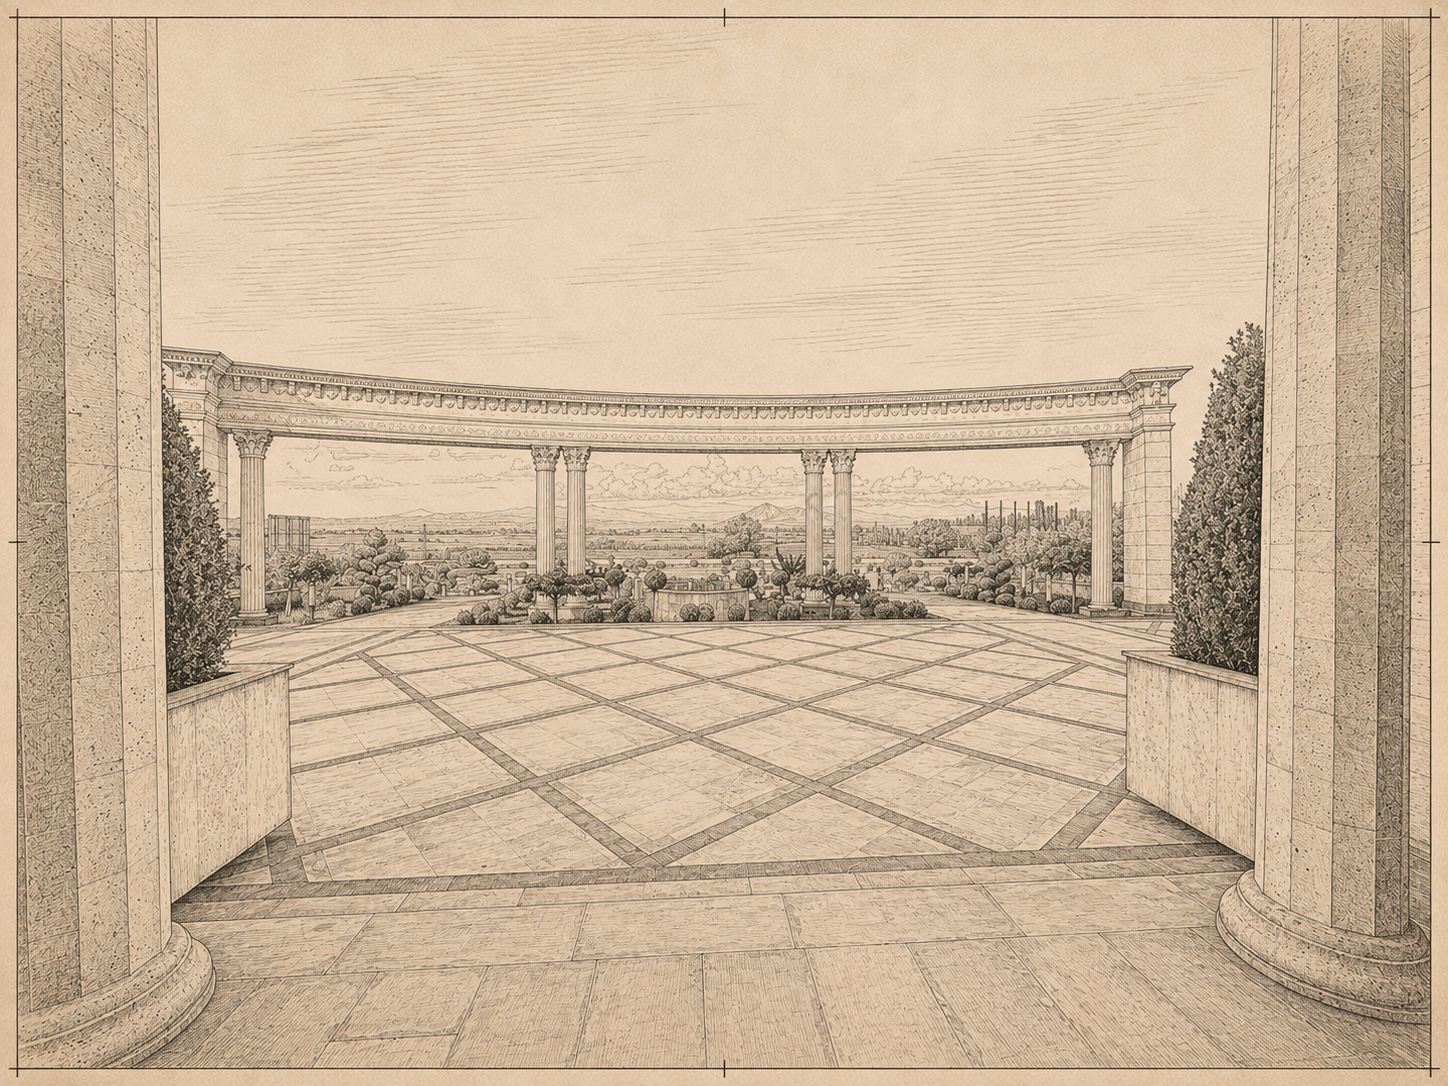
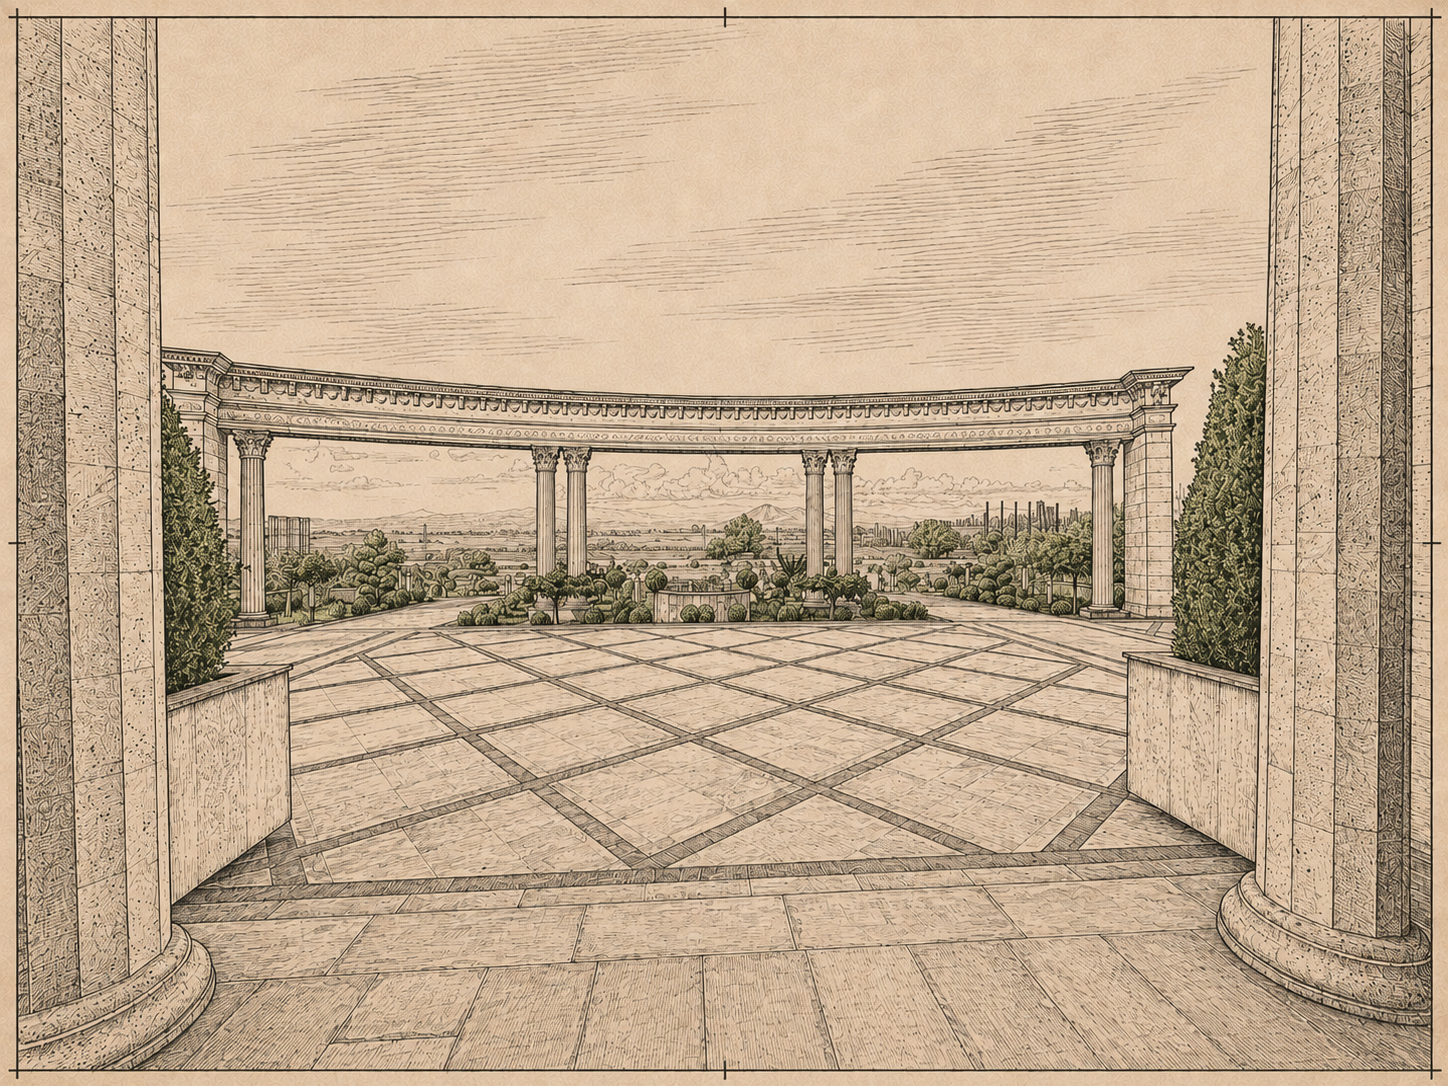
updated

diff --git a/src/App.jsx b/src/App.jsx
@@ -1,12 +1,10 @@
 import { useEffect, useMemo, useRef, useState } from 'react';
 import {
   ArrowUpRight,
-  CalendarDays,
   CheckCircle2,
   Clock3,
   Heart,
   MapPin,
-  Music2,
 } from 'lucide-react';
 import { useCountdown } from './hooks/useCountdown';
 import { submitRsvp } from './services/rsvpService';
@@ -102,7 +100,7 @@ function WeddingCalendar() {
 function EventCard({ event, mapButtonText, minimal = false }) {
   return (
     <article className="event-card">
-      <div className="event-media">
+      <div className={`event-media event-media-${event.id}`}>
         <img src={event.image} alt={event.imageAlt || event.title} loading="lazy" />
         <span>{event.number}</span>
       </div>
@@ -129,7 +127,7 @@ export default function App() {
   const [busy, setBusy] = useState(false);
   const [status, setStatus] = useState('');
   const audioRef = useRef(null);
-  const { couple, wedding, cover, hero, events, notes, rsvp, gallery, location, timing, appearance } = config;
+  const { couple, wedding, cover, hero, events, rsvp, gallery, location, timing, appearance } = config;
   const visibleEvents = events.filter(event => event.enabled !== false);
   const timingItems = visibleEvents.map(event => ({ time: event.time, title: event.title }));
   const dateParts = wedding.displayDate.split(' · ');
@@ -440,32 +438,6 @@ export default function App() {
             </div>
           </section>
         )}
-
-        <section className="details-section section">
-          <div className="section-copy">
-            <p className="kicker">{notes.kicker}</p>
-            <h2 data-shadow="DETAILS">DETAILS<em>special</em></h2>
-          </div>
-          <div className="details-grid">
-            {notes.items.map(note => (
-              <article key={note.title}>
-                {note.icon === 'calendar' ? <CalendarDays size={24} /> : <Heart size={24} />}
-                <h3>{note.title}</h3>
-                <p>{note.text}</p>
-              </article>
-            ))}
-            <article>
-              <Music2 size={24} />
-              <h3>{wedding.displayDate}</h3>
-              <p>Սպասում ենք Ձեզ ջերմ, լուսավոր և անմոռանալի երեկոյի համար։</p>
-            </article>
-          </div>
-          <div className="signature" aria-label="With love">
-            <p>WITH LOVE</p>
-            <strong>{couple.initials?.partnerOne || 'H'}<i>&amp;</i>{couple.initials?.partnerTwo || 'O'}</strong>
-            <small>Belle âme</small>
-          </div>
-        </section>
 
         <footer>
           <span>{couple.combinedName}</span>

diff --git a/src/config/weddingConfig.js b/src/config/weddingConfig.js
@@ -34,7 +34,7 @@ export const weddingConfig = {
     { id: 'bride-house', number: '02', title: 'Հարսի տուն', time: '12:00', venue: 'Հավաքվում ենք միասին', address: 'Հասցեն կավելացվի ավելի ուշ', mapUrl: 'https://www.google.com/maps/search/?api=1&query=Bride%27s+home+Armenia', image: '/pics/bribehouse.png', imageAlt: 'Հարսի տան նկարազարդում', enabled: true },
     { id: 'church', number: '03', title: 'Պսակադրության արարողություն', time: '15:00', venue: 'Սուրբ Հռիփսիմե եկեղեցի', address: 'Վաղարշապատ, Արմավիրի մարզ', mapUrl: 'https://www.google.com/maps/search/?api=1&query=Saint+Hripsime+Church+Vagharshapat', image: '/pics/church.png', imageAlt: 'Սուրբ Հռիփսիմե եկեղեցու նկարազարդում', enabled: true },
     { id: 'zags', number: '04', title: 'Ամուսնության գրանցում', time: '16:00', venue: 'Սուրբ Հռիփսիմե եկեղեցի', address: 'Վաղարշապատ, Արմավիրի մարզ', mapUrl: 'https://www.google.com/maps/search/?api=1&query=Saint+Hripsime+Church+Vagharshapat', image: '/pics/zags.png', imageAlt: 'Սուրբ Հռիփսիմե եկեղեցու նկարազարդում', enabled: true },
-    { id: 'reception', number: '05', title: 'Հարսանյանց հանդիսություն', time: '17:00', venue: 'Արարատ Հոլ', address: 'Հասցեն կավելացվի ավելի ուշ', mapUrl: 'https://www.google.com/maps/search/?api=1&query=Ararat+Hall+Armenia', image: '/pics/restorant.png', imageAlt: 'Ռեստորանի նկարազարդում', enabled: true },
+    { id: 'reception', number: '05', title: 'Հարսանյաց հանդիսություն', time: '17:00', venue: 'Արարատ Հոլ', address: 'Հասցեն կավելացվի ավելի ուշ', mapUrl: 'https://www.google.com/maps/search/?api=1&query=Ararat+Hall+Armenia', image: '/pics/restorant.png', imageAlt: 'Ռեստորանի նկարազարդում', enabled: true },
   ],
   countdown: { heading: 'Մնացել է․․․', labels: { days: 'ՕՐ', hours: 'ԺԱՄ', minutes: 'ՐՈՊԵ', seconds: 'ՎՐԿ' } },
   notes: {

diff --git a/src/index.css b/src/index.css
@@ -807,15 +807,7 @@ img {
 }
 
 .event-media::after {
-  content: '';
-  position: absolute;
-  inset: auto 1rem 1rem auto;
-  width: 3rem;
-  height: 3rem;
-  border: 1px solid rgba(255, 255, 255, 0.32);
-  border-radius: 50%;
-  background: rgba(32, 29, 27, 0.32);
-  backdrop-filter: blur(8px);
+  display: none;
 }
 
 .event-media img {
@@ -827,6 +819,15 @@ img {
   filter: none;
   transform: scale(1.08);
   transition: transform 420ms cubic-bezier(0.22, 1, 0.36, 1);
+}
+
+.event-media-groom-house img,
+.event-media-bride-house img,
+.event-media-church img,
+.event-media-zags img {
+  object-position: center top;
+  transform-origin: center top;
+  transform: scale(1.02);
 }
 
 .event-card:hover .event-media img,
@@ -2533,6 +2534,13 @@ body.opened {
 .event-media {
   aspect-ratio: 1.35;
   border-radius: 0;
+}
+
+.event-media-groom-house,
+.event-media-bride-house,
+.event-media-church,
+.event-media-zags {
+  aspect-ratio: 1.18;
 }
 
 .event-content {
